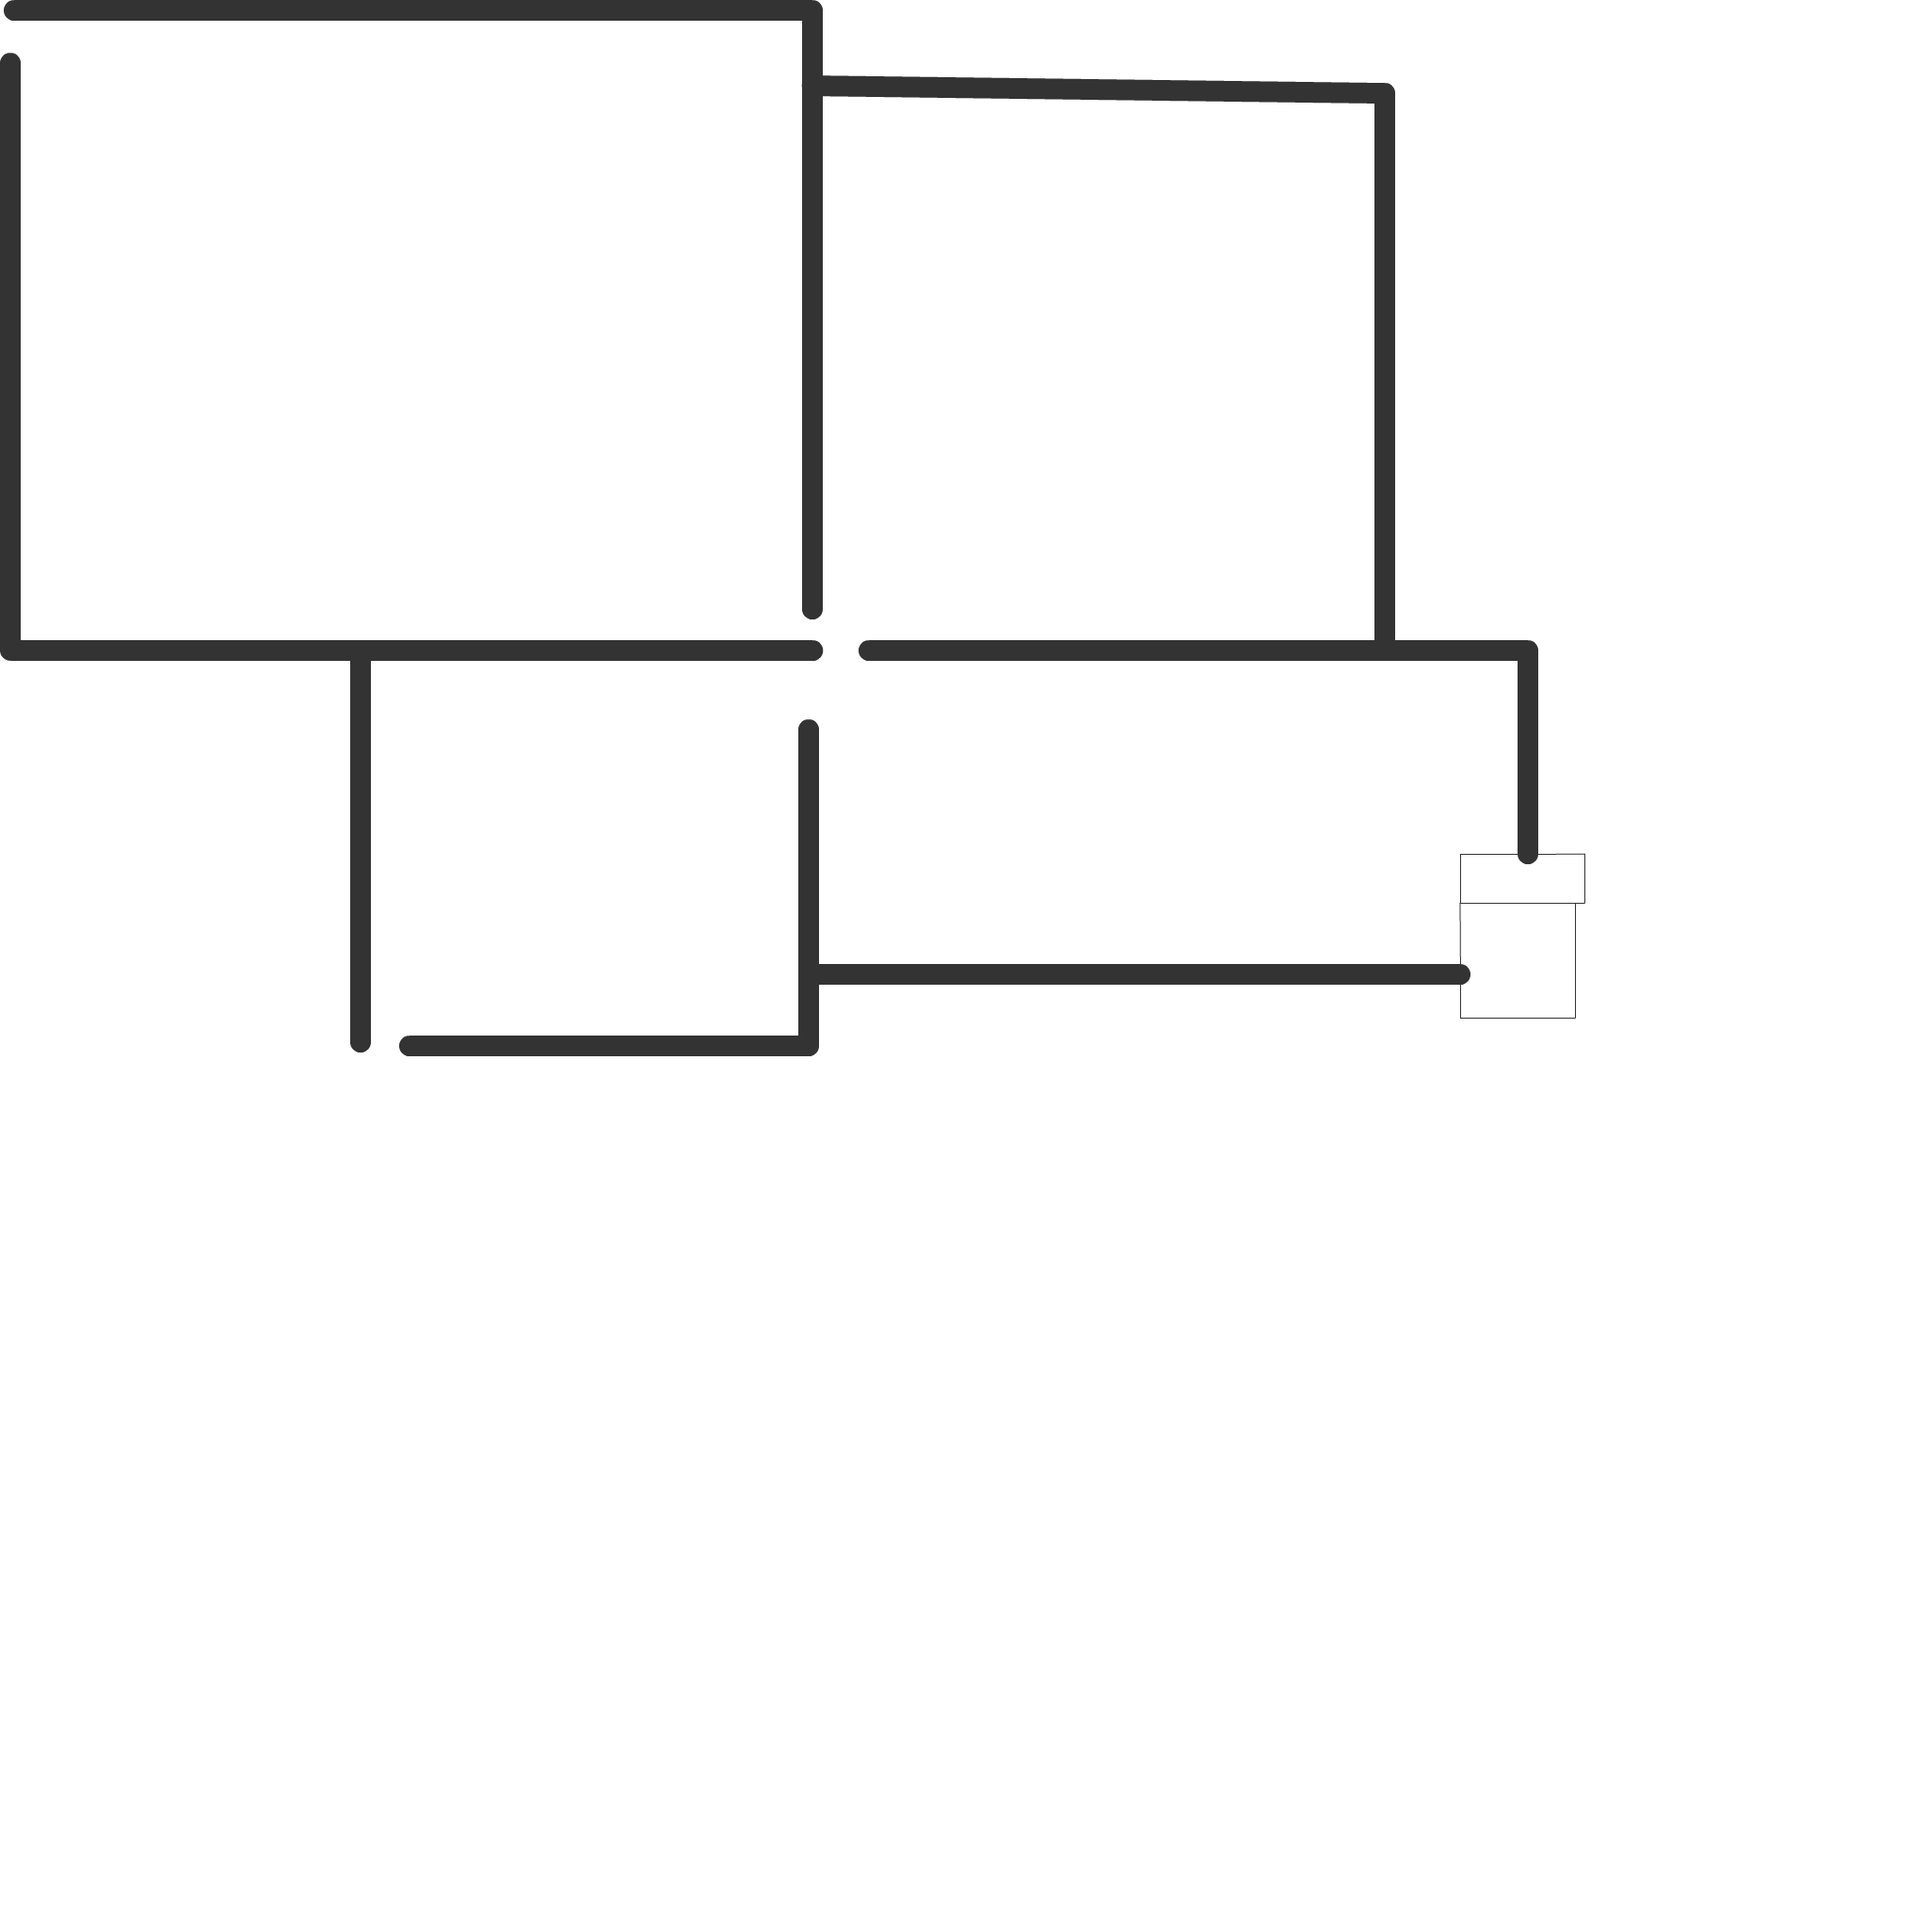
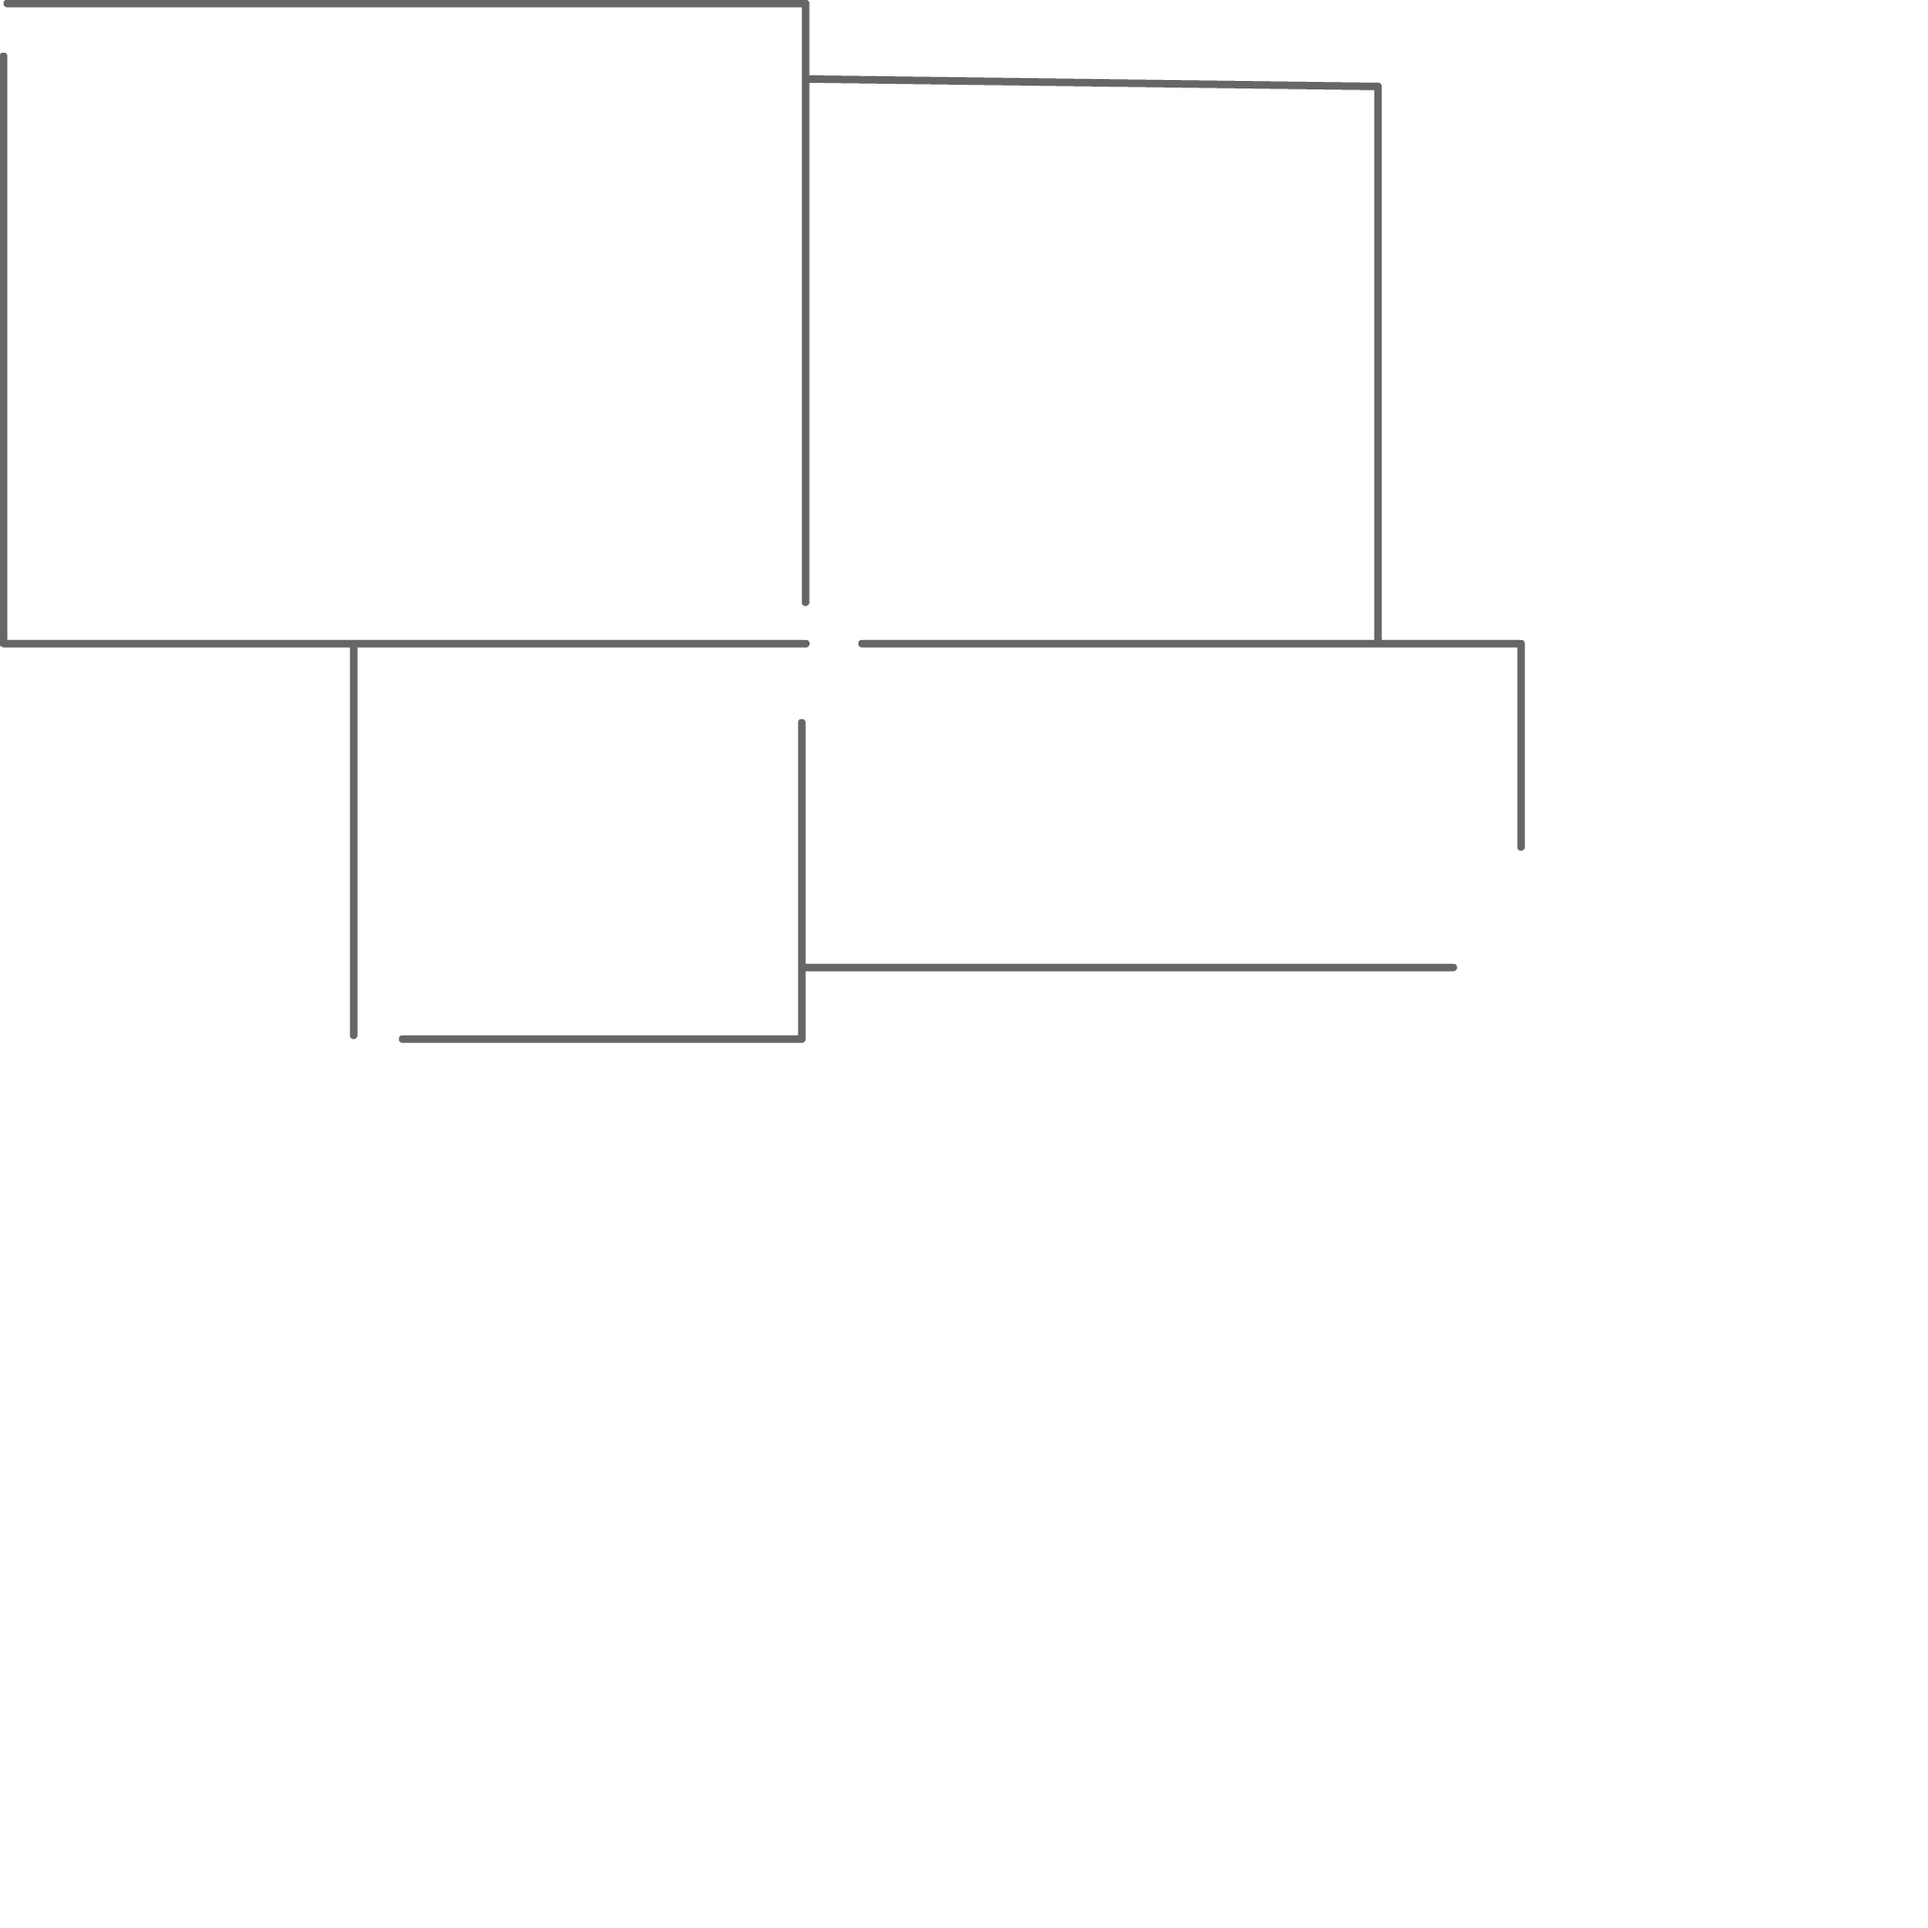
updating the virality and beyond

Changed region(s): [[0.0, 0.0, 0.8125, 0.5625]]

diff --git a/public/animations/virality-and-beyond/virality-and-beyond.js b/public/animations/virality-and-beyond/virality-and-beyond.js
@@ -5,7 +5,7 @@ var lib={};var ss={};var img={};
 lib.ssMetadata = [
 		{name:"virality_and_beyond_atlas_", frames: [[0,0,1800,1800]]},
 		{name:"virality_and_beyond_atlas_2", frames: [[0,0,1800,1800]]},
-		{name:"virality_and_beyond_atlas_3", frames: [[0,0,1684,1122]]},
+		{name:"virality_and_beyond_atlas_3", frames: [[0,0,1620,1108]]},
 		{name:"virality_and_beyond_atlas_4", frames: [[0,0,1200,1200]]},
 		{name:"virality_and_beyond_atlas_5", frames: [[1141,616,72,72],[1002,616,137,137],[0,1002,686,686],[1002,0,356,356],[1002,358,256,256],[0,0,1000,1000],[688,1002,536,522]]}
 ];
@@ -15,58 +15,58 @@ lib.ssMetadata = [
 
 
 
-(lib.CachedBmp_12 = function() {
+(lib.CachedBmp_8 = function() {
 	this.initialize(ss["virality_and_beyond_atlas_5"]);
 	this.gotoAndStop(0);
 }).prototype = p = new cjs.Sprite();
 
 
 
-(lib.CachedBmp_10 = function() {
-	this.initialize(ss["virality_and_beyond_atlas_5"]);
-	this.gotoAndStop(1);
-}).prototype = p = new cjs.Sprite();
-
-
-
-(lib.CachedBmp_9 = function() {
-	this.initialize(ss["virality_and_beyond_atlas_5"]);
-	this.gotoAndStop(2);
-}).prototype = p = new cjs.Sprite();
-
-
-
-(lib.CachedBmp_8 = function() {
-	this.initialize(ss["virality_and_beyond_atlas_4"]);
+(lib.CachedBmp_11 = function() {
+	this.initialize(ss["virality_and_beyond_atlas_3"]);
 	this.gotoAndStop(0);
 }).prototype = p = new cjs.Sprite();
 
 
 
 (lib.CachedBmp_7 = function() {
+	this.initialize(ss["virality_and_beyond_atlas_5"]);
+	this.gotoAndStop(1);
+}).prototype = p = new cjs.Sprite();
+
+
+
+(lib.CachedBmp_6 = function() {
+	this.initialize(ss["virality_and_beyond_atlas_5"]);
+	this.gotoAndStop(2);
+}).prototype = p = new cjs.Sprite();
+
+
+
+(lib.CachedBmp_5 = function() {
+	this.initialize(ss["virality_and_beyond_atlas_4"]);
+	this.gotoAndStop(0);
+}).prototype = p = new cjs.Sprite();
+
+
+
+(lib.CachedBmp_4 = function() {
 	this.initialize(ss["virality_and_beyond_atlas_"]);
 	this.gotoAndStop(0);
 }).prototype = p = new cjs.Sprite();
 
 
 
-(lib.CachedBmp_6 = function() {
+(lib.CachedBmp_3 = function() {
 	this.initialize(ss["virality_and_beyond_atlas_2"]);
 	this.gotoAndStop(0);
 }).prototype = p = new cjs.Sprite();
 
 
 
-(lib.CachedBmp_5 = function() {
+(lib.CachedBmp_2 = function() {
 	this.initialize(ss["virality_and_beyond_atlas_5"]);
 	this.gotoAndStop(3);
-}).prototype = p = new cjs.Sprite();
-
-
-
-(lib.CachedBmp_4 = function() {
-	this.initialize(ss["virality_and_beyond_atlas_3"]);
-	this.gotoAndStop(0);
 }).prototype = p = new cjs.Sprite();
 
 
@@ -146,7 +146,7 @@ p.nominalBounds = new cjs.Rectangle(0,0,177,177);
 	this.initialize(mode,startPosition,loop,{});
 
 	// Layer_1
-	this.instance = new lib.CachedBmp_12();
+	this.instance = new lib.CachedBmp_8();
 	this.instance.setTransform(4.9,4.9,0.4167,0.4167);
 
 	this.timeline.addTween(cjs.Tween.get(this.instance).wait(1));
@@ -155,6 +155,20 @@ p.nominalBounds = new cjs.Rectangle(0,0,177,177);
 
 }).prototype = p = new cjs.MovieClip();
 p.nominalBounds = new cjs.Rectangle(4.9,4.9,30,30);
+
+
+(lib.pipes = function(mode,startPosition,loop) {
+	this.initialize(mode,startPosition,loop,{});
+
+	// Layer_1
+	this.instance = new lib.CachedBmp_11();
+	this.instance.setTransform(-2,-2,0.5,0.5);
+
+	this.timeline.addTween(cjs.Tween.get(this.instance).wait(1));
+
+	this._renderFirstFrame();
+
+}).prototype = getMCSymbolPrototype(lib.pipes, new cjs.Rectangle(-2,-2,810,554), null);
 
 
 (lib.GoogleLogo = function(mode,startPosition,loop) {
@@ -176,19 +190,19 @@ p.nominalBounds = new cjs.Rectangle(0,0,110,110);
 	this.initialize(mode,startPosition,loop,{});
 
 	// Layer_1
-	this.instance = new lib.CachedBmp_10();
+	this.instance = new lib.CachedBmp_7();
 	this.instance.setTransform(587.1,244.3,0.5,0.5);
 
-	this.instance_1 = new lib.CachedBmp_9();
+	this.instance_1 = new lib.CachedBmp_6();
 	this.instance_1.setTransform(278.55,278.6,0.5,0.5);
 
-	this.instance_2 = new lib.CachedBmp_8();
+	this.instance_2 = new lib.CachedBmp_5();
 	this.instance_2.setTransform(150,150,0.5,0.5);
 
-	this.instance_3 = new lib.CachedBmp_7();
+	this.instance_3 = new lib.CachedBmp_4();
 	this.instance_3.setTransform(0,0,0.5,0.5);
 
-	this.instance_4 = new lib.CachedBmp_6();
+	this.instance_4 = new lib.CachedBmp_3();
 	this.instance_4.setTransform(0,0,0.5,0.5);
 
 	this.timeline.addTween(cjs.Tween.get({}).to({state:[{t:this.instance_4},{t:this.instance_3},{t:this.instance_2},{t:this.instance_1},{t:this.instance}]}).wait(1));
@@ -265,7 +279,7 @@ p.nominalBounds = new cjs.Rectangle(0,0,147.6,147.6);
 	this.instance = new lib.GoogleLogo("synched",0);
 	this.instance.setTransform(70,69.95,1,1,0,0,0,55,55);
 
-	this.instance_1 = new lib.CachedBmp_5();
+	this.instance_1 = new lib.CachedBmp_2();
 	this.instance_1.setTransform(-0.45,-0.45,0.4,0.4);
 
 	this.timeline.addTween(cjs.Tween.get({}).to({state:[{t:this.instance_1},{t:this.instance}]}).wait(1));
@@ -351,7 +365,7 @@ p.nominalBounds = new cjs.Rectangle(-18.2,-18.2,178,178);
 
 
 // stage content:
-(lib.viralityandbeyond4 = function(mode,startPosition,loop) {
+(lib.viralityandbeyond7 = function(mode,startPosition,loop) {
 	this.initialize(mode,startPosition,loop,{});
 
 	// logos
@@ -647,8 +661,8 @@ p.nominalBounds = new cjs.Rectangle(-18.2,-18.2,178,178);
 	this.timeline.addTween(cjs.Tween.get(this.instance_37).wait(8).to({_off:false},0).to({x:154.05,y:482.05},15).to({y:222.05},8).to({_off:true},1).wait(71));
 
 	// pipes
-	this.instance_38 = new lib.CachedBmp_4();
-	this.instance_38.setTransform(148.55,136.55,0.5,0.5);
+	this.instance_38 = new lib.pipes();
+	this.instance_38.setTransform(557.15,417.15,1,1,0,0,0,403.1,275.1);
 
 	this.timeline.addTween(cjs.Tween.get(this.instance_38).wait(103));
 

diff --git a/frontend/js/landing_cover.vue b/frontend/js/landing_cover.vue
@@ -11,7 +11,7 @@
                     Box(v-for="z in squares" :position="[x, y, z]" :key="`${x},${y},${z}`")
                         Material(:diffuse="pick_color(x,y,z)" :roughness="0.42")
                         Animation(property="rotation.x" :from="50" :duration="9" :end="-Math.PI * 2" :loop="false")
-                        Animation(property="rotation.y" :from="100" :duration="5" :end="-Math.PI * 2" :loop="false")
+                        Animation(property="rotation.y" :from="100" :duration="5" :end="Math.PI * 2" :loop="false")
                         Animation(property="rotation.z" :from="150" :duration="6" :end="Math.PI * 2" :loop="false")
                         Animation(property="scaling.x" :duration="10" :start="0.5" :end="Math.PI * 0.59" :loop="false")
                         Animation(property="scaling.y" :duration="10" :start="0.5" :end="Math.PI * 0.59" :loop="false")

diff --git a/frontend/js/about_cover.vue b/frontend/js/about_cover.vue
@@ -9,7 +9,7 @@
                 template(v-for="y in squares")
                     Box(v-for="z in squares" :position="[x, y, z]" :key="`${x},${y},${z}`")
                         Material(:diffuse="pick_color(x,y,z)" :roughness="0.30" :glossiness="1")
-                        Animation(property="scaling.z" :duration="5" :start="0.1" :end="0.2" :loop="false")
+                        Animation(property="scaling.z" :duration="5" :start="0.1" :end="0.15" :loop="false")
 
 </template>
 

diff --git a/public/animations/virality-and-beyond/virality-and-beyond.html b/public/animations/virality-and-beyond/virality-and-beyond.html
@@ -50,7 +50,7 @@ function handleComplete(evt,comp) {
 	for(i=0; i<ssMetadata.length; i++) {
 		ss[ssMetadata[i].name] = new createjs.SpriteSheet( {"images": [queue.getResult(ssMetadata[i].name)], "frames": ssMetadata[i].frames} )
 	}
-	exportRoot = new lib.viralityandbeyond4();
+	exportRoot = new lib.viralityandbeyond7();
 	stage = new lib.Stage(canvas);	
 	//Registers the "tick" event listener.
 	fnStartAnimation = function() {

diff --git a/app/controllers/pages_controller.rb b/app/controllers/pages_controller.rb
@@ -4,30 +4,26 @@ class PagesController < ApplicationController
 
   layout 'popup', only: [:privacy, :tos]
 
-  def home
-    @page= contentful.entry(ENV['CONTENTFUL_PRESENTATION_ID'], include: 3)
-  end
-
   def landing
     renderer = RichTextRenderer::Renderer.new
 
     @homepage = contentful.entry(ENV['CONTENTFUL_LANDING_ID'], include: 2)
-    @page_title = @homepage.page_title
-    @page_description = @homepage.page_description
-    @master_text = renderer.render(@homepage.master_text)
-    @cta_color = field_test(:button_color)
-    @cta_text = field_test(:button_text)
-    set_meta_tags og: {title: @homepage.page_title }
     set_meta_tags icon: @homepage.fav_icon.url, type: 'image/png'
+
+    @page_title = 'GoodLogik | Web Platform for Entrepreneurs, Brands and Influencers.'
+    @page_description = 'Strengthen your brand, grow your fan-base, and promote your business with a platform that puts in the center.'
+    set_meta_tags og: {title: @page_title }
   end
 
   def features
-    @page_title = 'Platform Features | GoodLogik'
+    @page_title = 'Product | GoodLogik'
+    @page_description = 'High-performance web platform with advanced publishing capabilities, integrated social features, and built-in analytics.'
 
   end
 
   def pricing
-    @page_title = 'Platform Pricing | GoodLogik'
+    @page_title = 'Pricing | GoodLogik'
+    @page_description = "See the price for GoodLogik's web platform, kick-off your 14-day free trial of and start growing your business today."
 
   end
 

diff --git a/config/routes.rb b/config/routes.rb
@@ -1,6 +1,6 @@
 Rails.application.routes.draw do
   root 'pages#landing'
-  get 'features', to: 'pages#features'
+  get 'product', to: 'pages#features'
   get 'pricing', to: 'pages#pricing'
   get 'about', to: 'pages#about'
 
